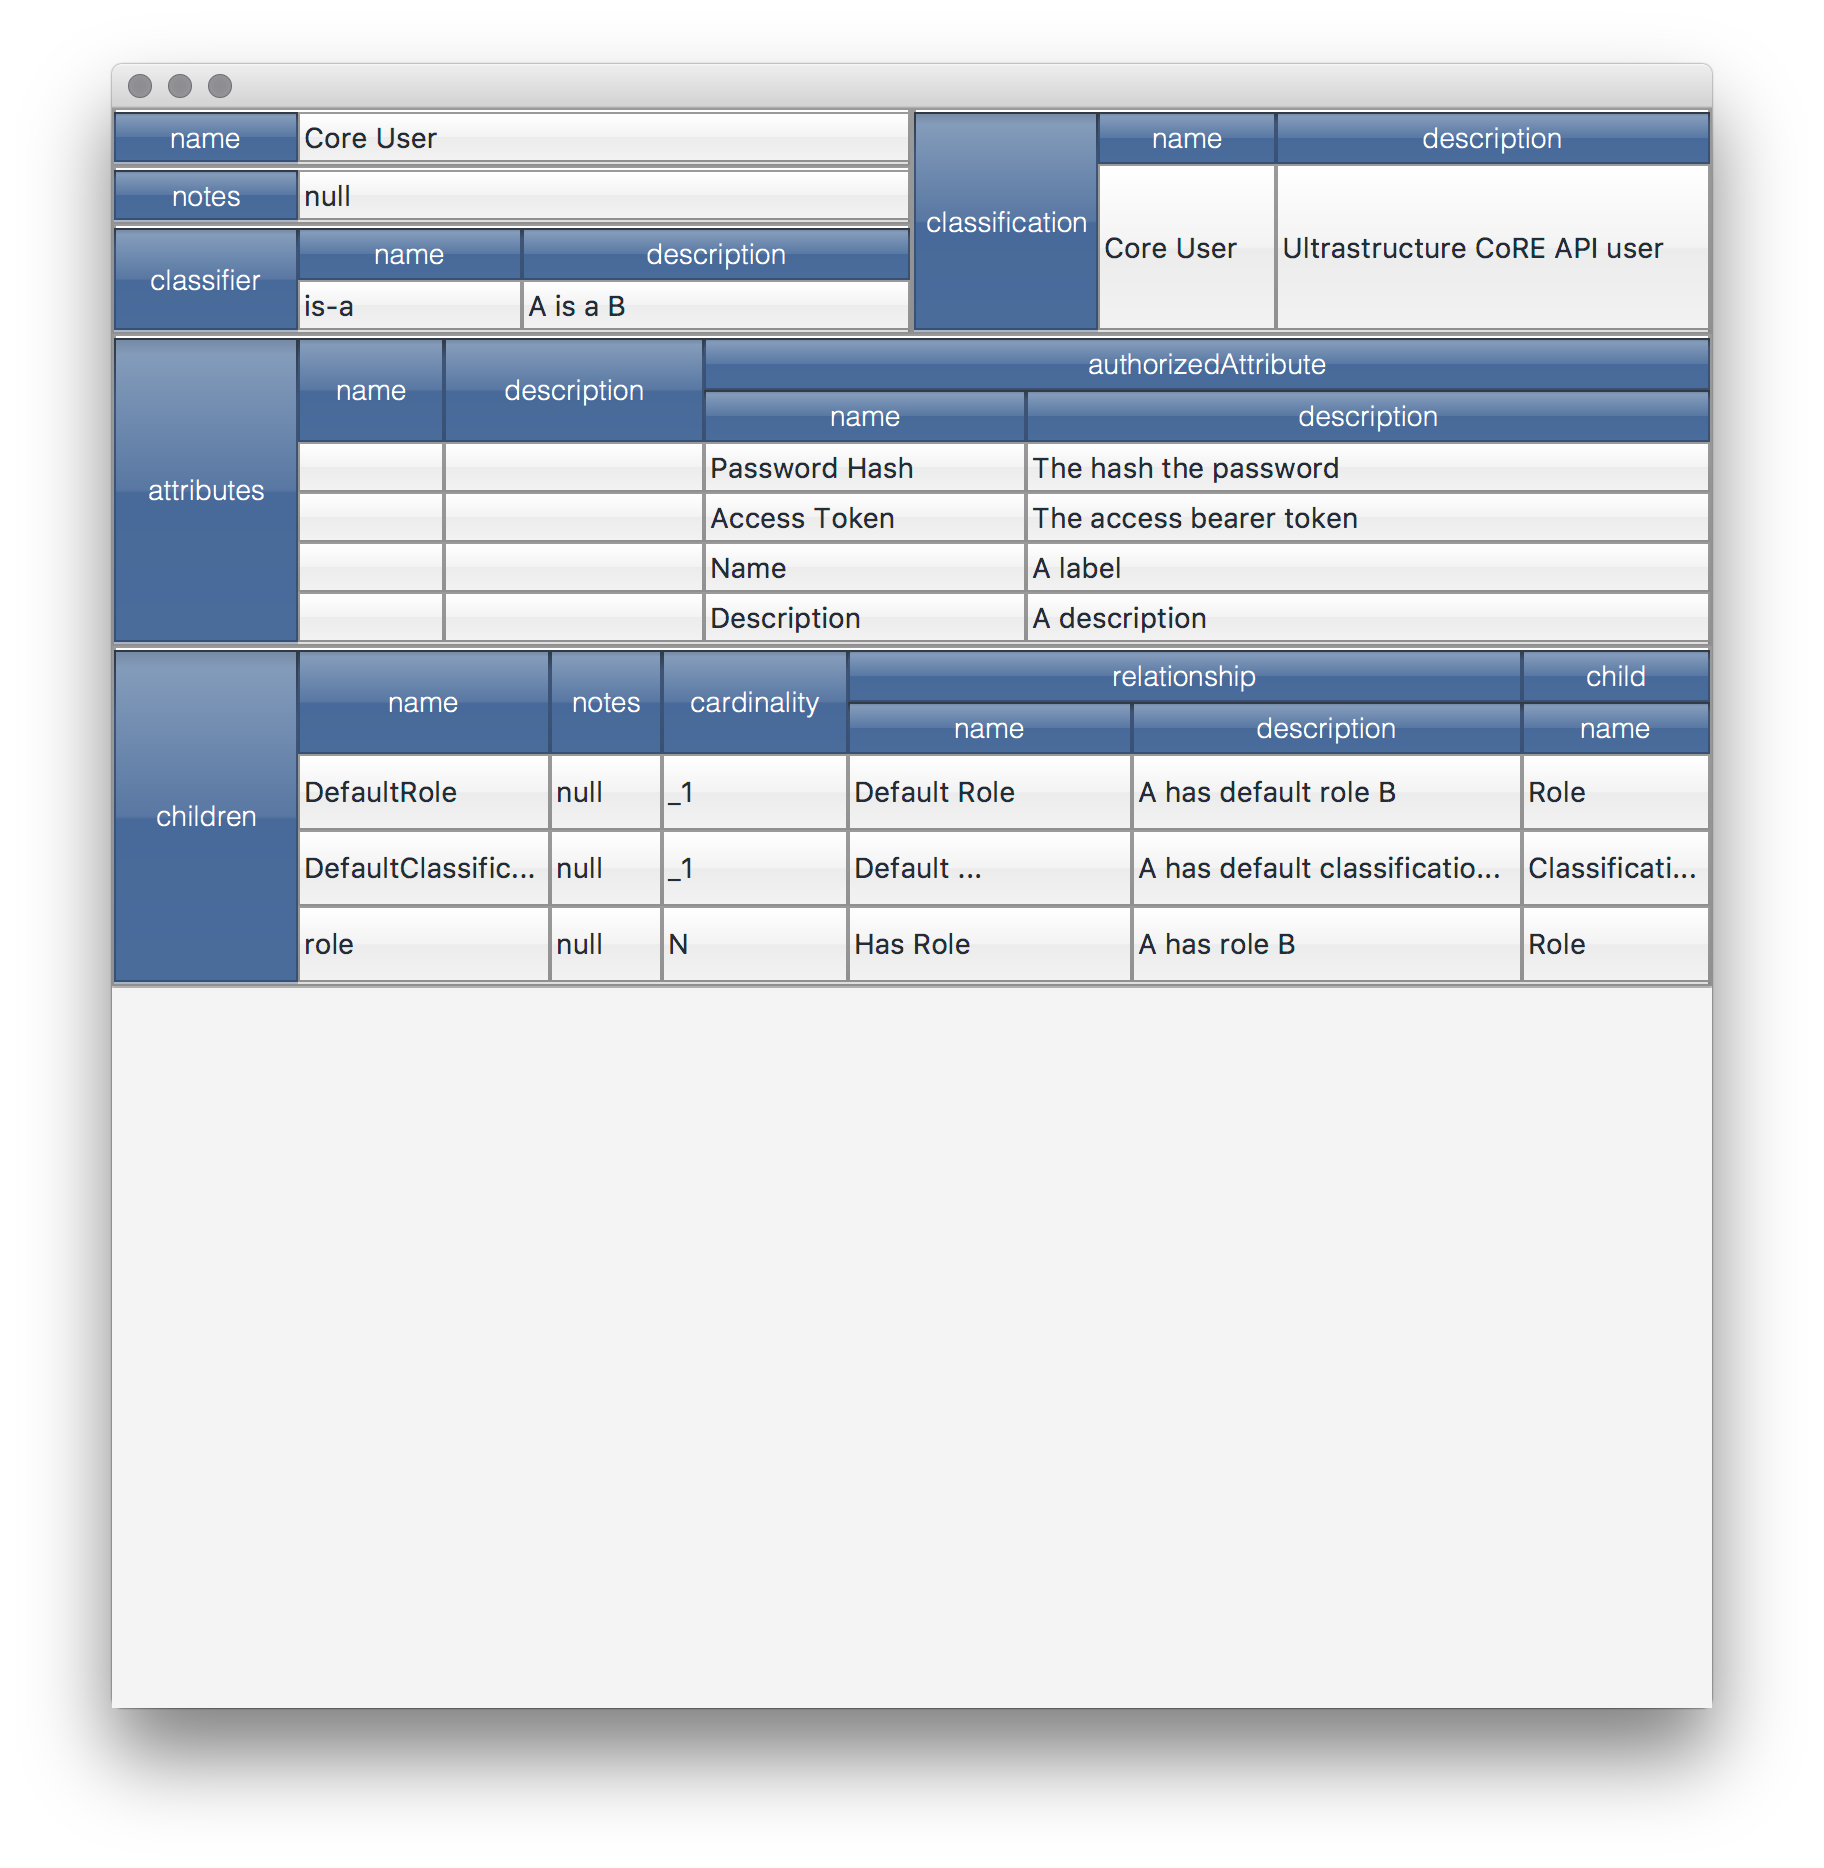
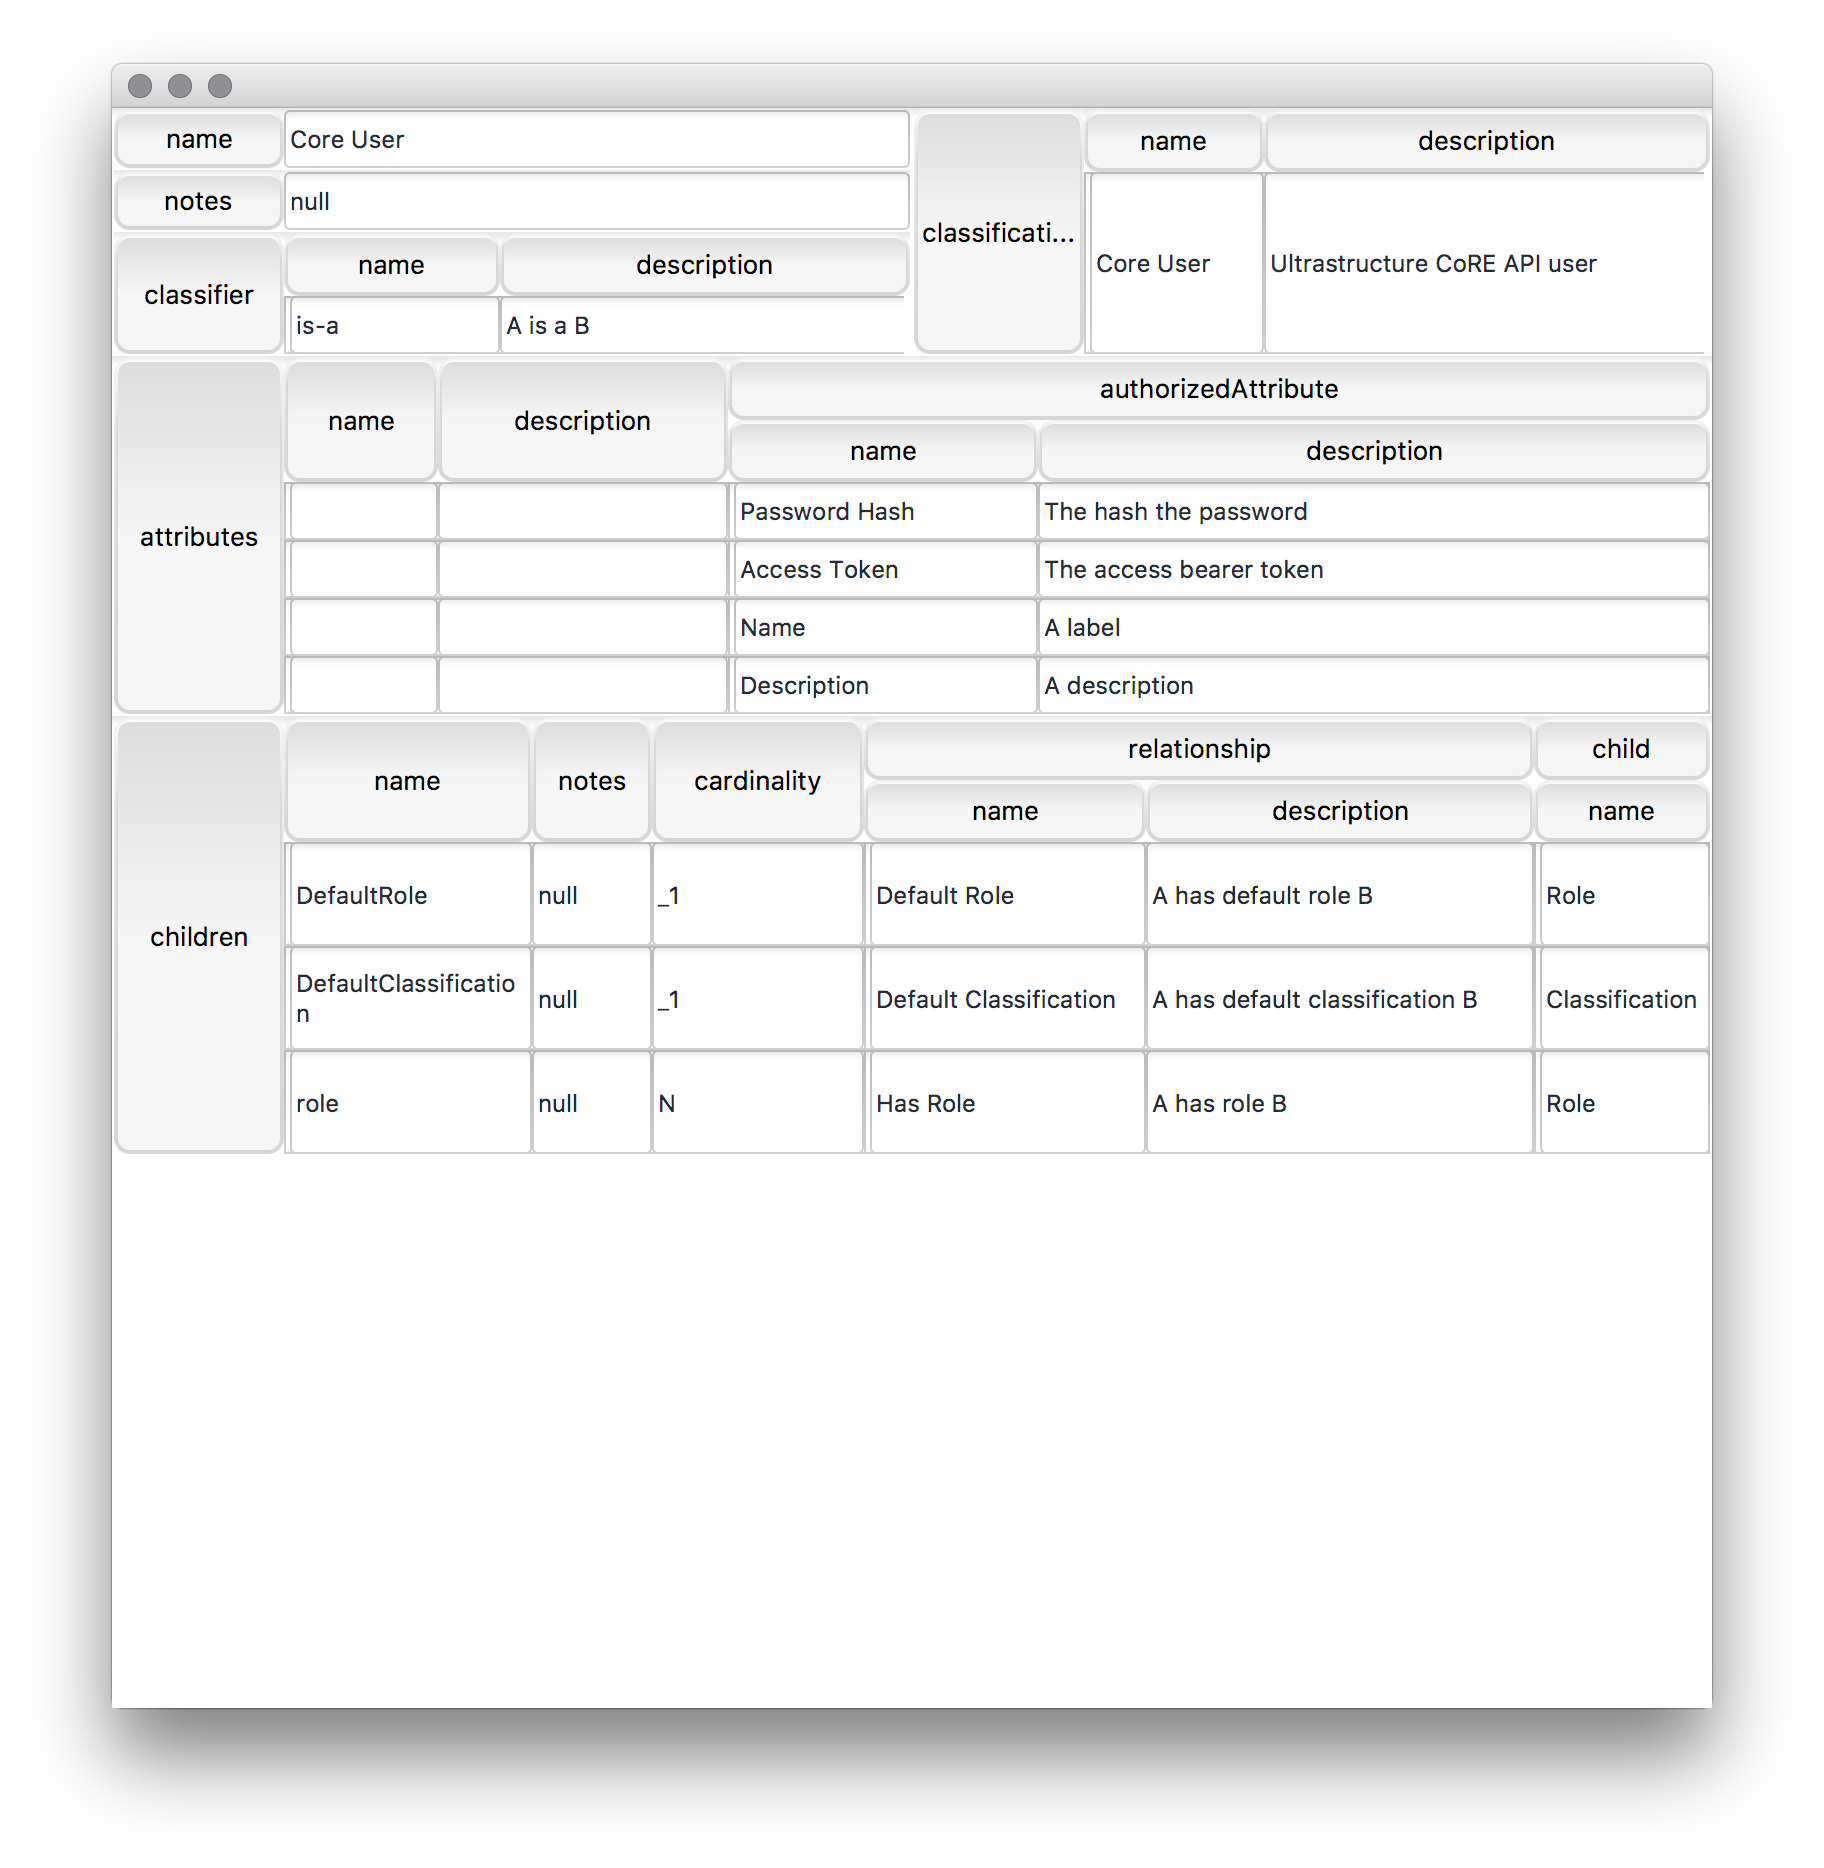
better css

Changed region(s): [[0.0625, 0.031, 0.9375, 0.621], [0.0625, 0.5899, 0.0938, 0.621]]

diff --git a/kramer/src/main/resources/com/chiralbehaviors/layout/table/nested-cell.css b/kramer/src/main/resources/com/chiralbehaviors/layout/table/nested-cell.css
@@ -1,11 +1,10 @@
 .nested-cell {
-    -fx-padding: 1.0 3.0 1.0 6.0;
+    -fx-padding: 0.0 0.0 0.0 3.0;
+    -fx-background-insets: 0, 1;
 	-fx-alignment: center-left;
 	-fx-focus-traversable: true;
-	-fx-background-color: rgba(0.0, 0.0, 0.0, 0.08),
-		linear-gradient(#9a9a9a, #909090),
-		linear-gradient(white 0.0%, #f3f3f3 50.0%, #ececec 51.0%, #f2f2f2 100.0%
-		);
+    -fx-background-color: linear-gradient(to bottom, derive(-fx-text-box-border, -10%), -fx-text-box-border),
+        linear-gradient(from 0px 0px to 0px 5px, derive(-fx-control-inner-background, -9%), -fx-control-inner-background);
 }
 
 .nested-cell:hover {

diff --git a/kramer/src/main/resources/com/chiralbehaviors/layout/table/nested-row.css b/kramer/src/main/resources/com/chiralbehaviors/layout/table/nested-row.css
@@ -1,10 +1,8 @@
 .nested-row {
     -fx-alignment: center-left;
     -fx-focus-traversable: true;
-    -fx-background-color: rgba(0.0, 0.0, 0.0, 0.08),
-        linear-gradient(#9a9a9a, #909090),
-        linear-gradient(white 0.0%, #f3f3f3 50.0%, #ececec 51.0%, #f2f2f2 100.0%
-        );
+    -fx-background-color: linear-gradient(to bottom, derive(-fx-text-box-border, -10%), -fx-text-box-border),
+        linear-gradient(from 0px 0px to 0px 5px, derive(-fx-control-inner-background, -9%), -fx-control-inner-background);
 }
 
 .nested-row:hover {

diff --git a/kramer/src/main/resources/com/chiralbehaviors/layout/outline/outline-element.css b/kramer/src/main/resources/com/chiralbehaviors/layout/outline/outline-element.css
@@ -3,9 +3,8 @@
     
     -fx-alignment: center-left;
     -fx-focus-traversable: true;
-    -fx-background-color: rgba(0.0, 0.0, 0.0, 0.08),
-        linear-gradient(#9a9a9a, #909090),
-        linear-gradient(white 0.0%, #f3f3f3 50.0%, #ececec 51.0%, #f2f2f2 100.0%);
+    -fx-background-color: linear-gradient(to bottom, derive(-fx-text-box-border, -10%), -fx-text-box-border),
+        linear-gradient(from 0px 0px to 0px 5px, derive(-fx-control-inner-background, -9%), -fx-control-inner-background);
 }
 
 .outline-element:hover {

diff --git a/kramer/src/main/resources/com/chiralbehaviors/layout/table/nested-table.css b/kramer/src/main/resources/com/chiralbehaviors/layout/table/nested-table.css
@@ -1,8 +1,6 @@
 .nested-table {
     -fx-alignment: center-left;
     -fx-focus-traversable: true;
-    -fx-background-color: rgba(0.0, 0.0, 0.0, 0.08),
-        linear-gradient(#9a9a9a, #909090),
-        linear-gradient(white 0.0%, #f3f3f3 50.0%, #ececec 51.0%, #f2f2f2 100.0%
-        );
+    -fx-background-color: linear-gradient(to bottom, derive(-fx-text-box-border, -10%), -fx-text-box-border),
+        linear-gradient(from 0px 0px to 0px 5px, derive(-fx-control-inner-background, -9%), -fx-control-inner-background);
 }

diff --git a/kramer/src/main/resources/com/chiralbehaviors/layout/outline/outline.css b/kramer/src/main/resources/com/chiralbehaviors/layout/outline/outline.css
@@ -1,7 +1,6 @@
 .outline {   
     -fx-alignment: center-left;
     -fx-focus-traversable: true;
-    -fx-background-color: rgba(0.0, 0.0, 0.0, 0.08),
-        linear-gradient(#9a9a9a, #909090),
-        linear-gradient(white 0.0%, #f3f3f3 50.0%, #ececec 51.0%, #f2f2f2 100.0%);
+    -fx-background-color: linear-gradient(to bottom, derive(-fx-text-box-border, -10%), -fx-text-box-border),
+        linear-gradient(from 0px 0px to 0px 5px, derive(-fx-control-inner-background, -9%), -fx-control-inner-background);
 }

diff --git a/kramer/src/main/resources/com/chiralbehaviors/layout/outline/span.css b/kramer/src/main/resources/com/chiralbehaviors/layout/outline/span.css
@@ -2,7 +2,6 @@
 .span {
     -fx-alignment: center-left;
     -fx-focus-traversable: true;
-    -fx-background-color: rgba(0.0, 0.0, 0.0, 0.08),
-        linear-gradient(#9a9a9a, #909090),
-        linear-gradient(white 0.0%, #f3f3f3 50.0%, #ececec 51.0%, #f2f2f2 100.0%);
+    -fx-background-color: linear-gradient(to bottom, derive(-fx-text-box-border, -10%), -fx-text-box-border),
+        linear-gradient(from 0px 0px to 0px 5px, derive(-fx-control-inner-background, -9%), -fx-control-inner-background);
 }

diff --git a/kramer/src/main/resources/com/chiralbehaviors/layout/outline/outline-cell.css b/kramer/src/main/resources/com/chiralbehaviors/layout/outline/outline-cell.css
@@ -2,7 +2,6 @@
     
     -fx-alignment: center-left;
     -fx-focus-traversable: true;
-    -fx-background-color: rgba(0.0, 0.0, 0.0, 0.08),
-        linear-gradient(#9a9a9a, #909090),
-        linear-gradient(white 0.0%, #f3f3f3 50.0%, #ececec 51.0%, #f2f2f2 100.0%);
+    -fx-background-color: linear-gradient(to bottom, derive(-fx-text-box-border, -10%), -fx-text-box-border),
+        linear-gradient(from 0px 0px to 0px 5px, derive(-fx-control-inner-background, -9%), -fx-control-inner-background);
 }

diff --git a/kramer/src/main/resources/com/chiralbehaviors/layout/outline/outline-column.css b/kramer/src/main/resources/com/chiralbehaviors/layout/outline/outline-column.css
@@ -3,7 +3,6 @@
     
     -fx-alignment: center-left;
     -fx-focus-traversable: true;
-    -fx-background-color: rgba(0.0, 0.0, 0.0, 0.08),
-        linear-gradient(#9a9a9a, #909090),
-        linear-gradient(white 0.0%, #f3f3f3 50.0%, #ececec 51.0%, #f2f2f2 100.0%);
+    -fx-background-color: linear-gradient(to bottom, derive(-fx-text-box-border, -10%), -fx-text-box-border),
+        linear-gradient(from 0px 0px to 0px 5px, derive(-fx-control-inner-background, -9%), -fx-control-inner-background);
 }
